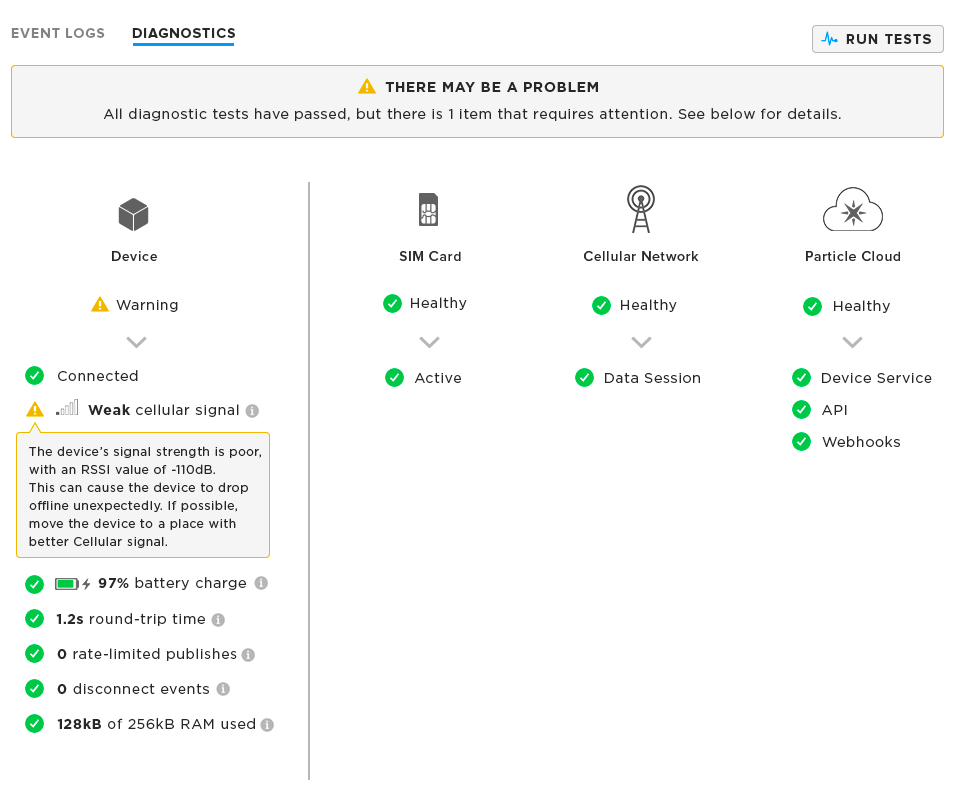
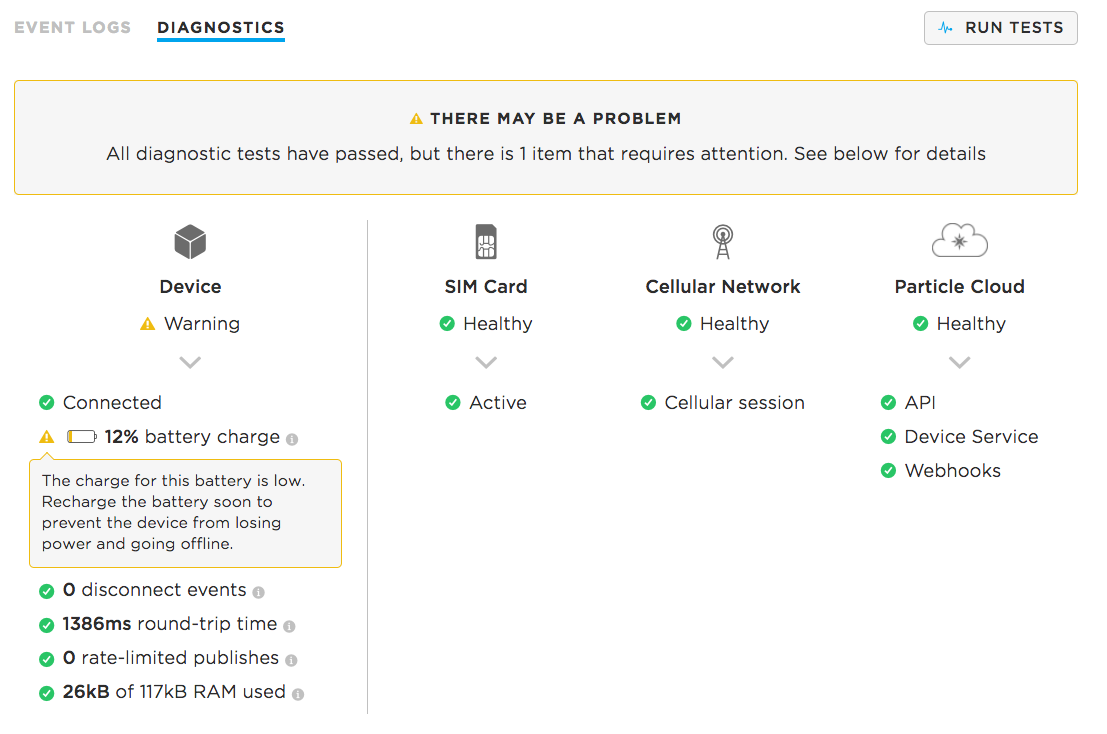
Flesh out diagnostic test result secion

diff --git a/src/content/guide/tools-and-features/remote-diagnostics.md b/src/content/guide/tools-and-features/remote-diagnostics.md
@@ -40,7 +40,7 @@ These connectivity layers are:
   Particle Cloud"
   src="/assets/images/remote-diagnostics/connectivity-layers-cellular.png"/>
 {{else}}
-  <img class="full-width" alt="Device and
+  <img alt="Device and
   Particle Cloud"
   src="/assets/images/remote-diagnostics/connectivity-layers-wifi.png"/>
 {{/if}}
@@ -178,19 +178,63 @@ test results.
 
 ## Test Results
 
-There are three potential results of the Remote Diagnostic tests:
-- **Healthy**
-- **Warning**
-- **Failure**
+Once all of the diagnostic tests have completed, the Console will
+provide test results. Each connectivity layer will marked as
+_healthy_, _unhealthy_, or _warning_  depending on the result of the
+test.
+
+### Healthy
 
 A fully healthy test result will be displayed like this:
 
 <img
 src="/assets/images/remote-diagnostics/successful-diagnostics-test.png"
 class="full-width"/>
+<p class="caption">All diagnostic tests have passed and this device is
+healthy! Woot!</p>
 
-A diagnostic test in the warning state will be displayed like this:
+You can see that each connectivity layer has been marked as _healthy_,
+with a green checkmark. You will also notice a top-level summary
+that confirms that all tests have passed and diagnostic vitals are in healthy
+ranges.
+
+### Warning
+
+The diagnostic tests also can be marked in the _warning_ state. In
+this case, one or more of the diagnostic vitals has fallen outside of
+the healthy range. However, all diagnostic tests still passed. This is
+an indication that there _may be a problem_, and you should investigate
+it further:
 
 <img
 src="/assets/images/remote-diagnostics/warning-diagnostics-test.png"
-class="full-width"/>
+class="full-width" style="max-height: inherit"/>
+
+In this case, the device's battery is running low (12%) but the device
+is still online and able to communicate with the Particle Cloud. Some
+help text appears to provide an explanation and a recommended course of
+action. For devices with low battery, the recommendation is simple
+&mdash; recharge the battery before the device turns off.
+
+### Unhealthy
+
+The test run will be marked as _unhealthy_ if one or more of the Remote
+Diagnostic tests fail. Note that failure is defined as a state in which
+the device will not be able to communicate with the Particle Cloud:
+
+<img src="/assets/images/remote-diagnostics/diagnostic-failure.png"
+class="full-width" />
+<p class="caption">This Remote Diagnostic test has failed because the
+device is unresponsive to attempts to ping it from the cloud</p>
+
+In this state, the test will be marked clearly as failing with a red "X"
+icon. In this case, we are not able to successfully communicate with the
+Particle device. The device layer is marked as unhealthy, and we see
+that the device is unresponsive.
+
+To help uncover what the cause of the issue might be, the last known
+device diagnostic reading is displayed. For this device, we can see that
+the battery state of charge was low the last time it checked in with the
+cloud. We can deduce that the device ran out of battery, powered down, and went
+offline.
+
